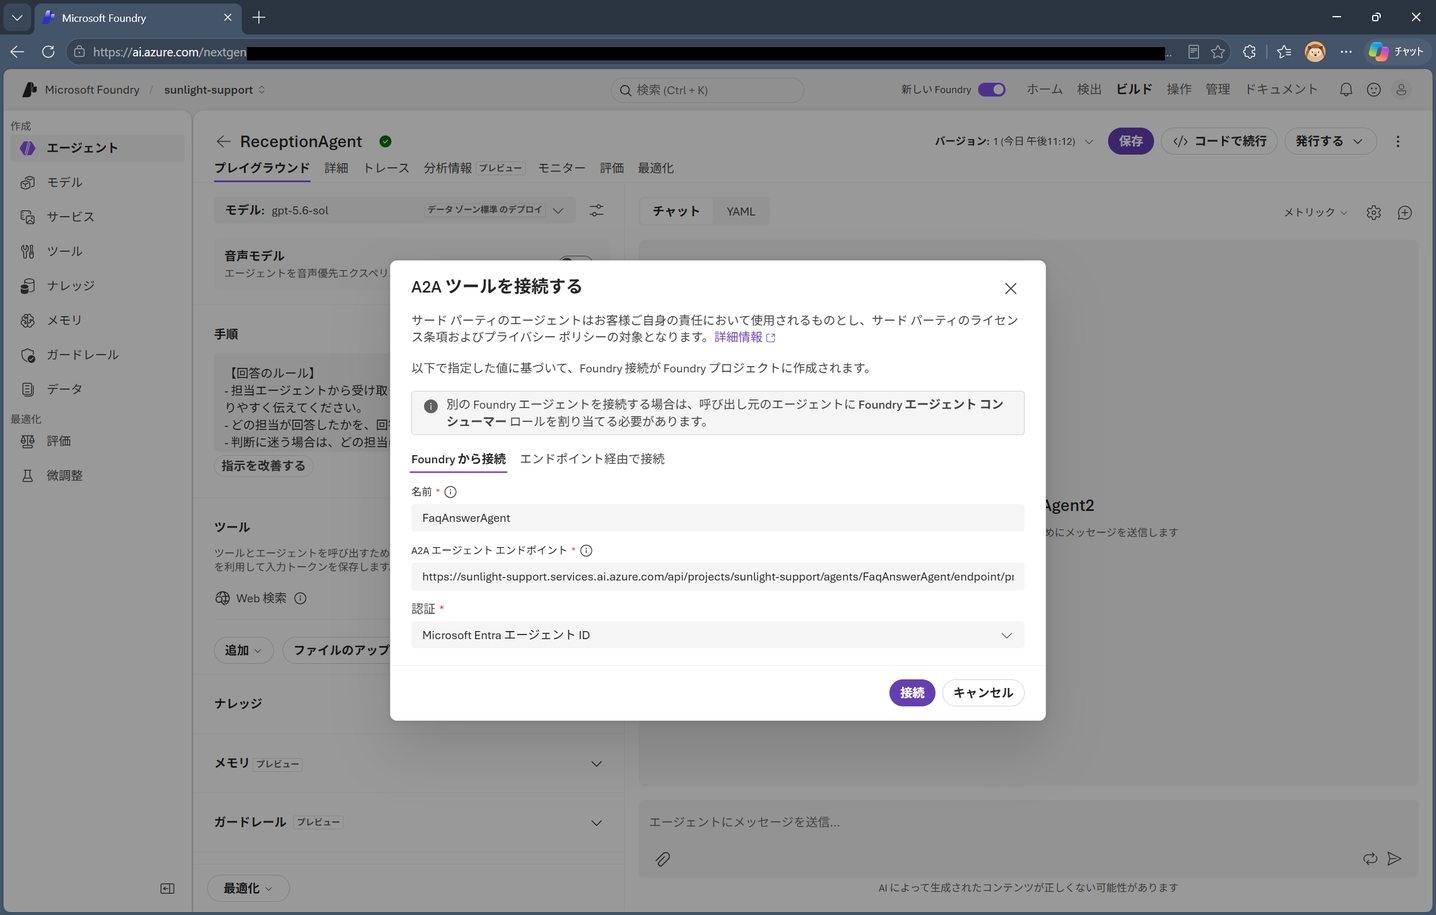
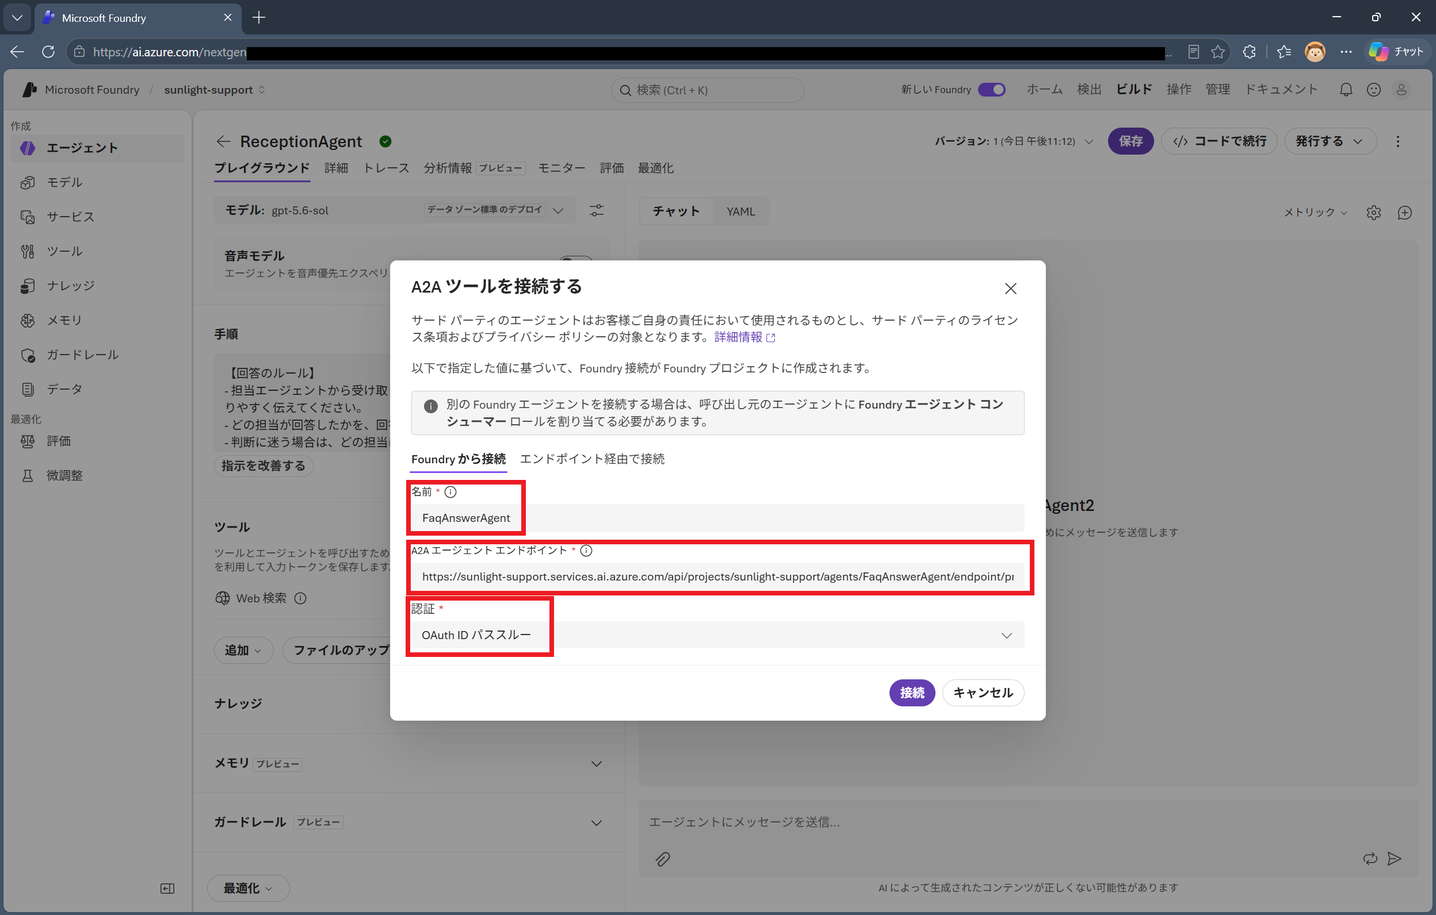
Lab2のA2A手順をポータル設定に更新

Changed region(s): [[0.2812, 0.5232, 0.7188, 0.7387]]

diff --git a/labs/lab2-knowledge-and-multiagent/lab2-knowledge-and-multiagent.md b/labs/lab2-knowledge-and-multiagent/lab2-knowledge-and-multiagent.md
@@ -503,69 +503,43 @@ Lab 1 の演習 1.2 と **同じ質問** を送信し、回答の違いを確認
 
 ### 4.5 A2A を設定する
 
-3 体の専門エージェントに **受信 A2A（Agent2Agent）** を有効化し、他のエージェントから発見・呼び出しできるように準備します。Foundry ポータルではまだ設定できないため、REST API を PowerShell または Bash から実行します。
+3 体の専門エージェントに **受信 A2A（Agent2Agent）** を有効化し、他のエージェントから発見・呼び出しできるように準備します。ここでは Foundry ポータルを使います。
+
+> 💡 スクリプトを使う方法は、末尾の [参考: スクリプトによる A2A 設定](#参考-スクリプトによる設定) に記載しています。
 
 #### 手順
 
-1. ターミナルで Azure にサインインし、対象サブスクリプションを選択する
+1. Foundry ポータルで `FaqAnswerAgent` を開き、**「詳細」** タブを選択する
+2. **「A2A プロトコル」** の **「有効化」** をクリックし、エージェントカードの作成画面を開く
+3. 次の内容を入力する。名前は `FaqAnswerAgent` のままにし、必須項目の説明・スキル名・スキルの説明を設定する
 
-```text
-az login
-az account set --subscription "<サブスクリプションID>"
-```
-
-2. 実行するスクリプトを手元に用意する。演習 1.1 でリポジトリを ZIP で取得またはクローンしている場合は、[labs/lab2-knowledge-and-multiagent/script](script) フォルダにすべて入っています。
-
-   リポジトリ全体を取得していない場合は、使うスクリプトだけを次の手順で保存します。
-
-   - **ローカルの PowerShell／Bash を使う場合**: GitHub で [a2a-settings.ps1](script/a2a-settings.ps1) または [a2a-settings.sh](script/a2a-settings.sh) を開き、右上の **「Download raw file」**（ダウンロードアイコン）で保存する。4.7 で使う `permission.ps1`／`permission.sh` も同じ方法で、同じフォルダーに保存しておく
-   - **Azure Cloud Shell の Bash を使う場合**: Cloud Shell のツールバーにある **「ファイルの管理」→「アップロード」** で、ダウンロードした `.sh` ファイルをアップロードする。アップロード先はホームディレクトリで、次の手順のコマンドではパスを `bash ./a2a-settings.sh` に読み替える
-
-   > ⚠ **PowerShell で「スクリプトの実行が無効」と表示される場合**: 現在のウィンドウだけ `Set-ExecutionPolicy -Scope Process -ExecutionPolicy RemoteSigned` を実行してから、再度スクリプトを実行します。ダウンロードしたファイルがブロックされる場合は、`Unblock-File <ファイルのパス>` を実行します。
-
-3. リポジトリのルートで **次の PowerShell または Bash のいずれか一方**を実行する。Foundry リソース名とプロジェクト名を実際の値に置き換えてください。プロジェクトのエンドポイントが `https://<リソース名>.services.ai.azure.com/api/projects/<プロジェクト名>` であることを確認します。
-
-**PowerShell（Windows で推奨）**
-
-[a2a-settings.ps1](script/a2a-settings.ps1) を実行します。
-
-```powershell
-$FoundryName = "<Foundryリソース名>"
-$ProjectName = "<プロジェクト名>"
-
-.\labs\lab2-knowledge-and-multiagent\script\a2a-settings.ps1 `
-    -FOUNDRY_NAME $FoundryName `
-    -FOUNDRY_PROJECT_NAME $ProjectName
-```
-
-**Bash（Azure Cloud Shell の Bash、Git Bash、WSL など）**
-
-[a2a-settings.sh](script/a2a-settings.sh) を実行します。Bash 環境側にも Azure CLI と `curl` が必要です。
-
-```bash
-export FOUNDRY_NAME="<Foundryリソース名>"
-export FOUNDRY_PROJECT_NAME="<プロジェクト名>"
-
-bash labs/lab2-knowledge-and-multiagent/script/a2a-settings.sh
-```
-
-スクリプトは Azure CLI でアクセストークンを取得し、各エージェントに `PATCH /agents/<エージェント名>?api-version=v1` を送信します。設定内容は次のとおりです。
-
-| 設定項目 | 内容 |
+| 項目 | 入力例 |
 |------|------|
-| `agent_card` | エージェントの説明、カードのバージョン、スキルの ID・名前・説明 |
-| `agent_endpoint.protocol_configuration.responses` | Responses プロトコルを有効化（受信 A2A の前提） |
-| `agent_endpoint.protocol_configuration.a2a` | 受信 A2A を有効化 |
+| 名前 | `FaqAnswerAgent` |
+| 説明 | 製品の仕様・使い方・成分・安全性・社内手順に関する質問に答えるエージェント |
+| スキル名 | FAQ Answer |
+| スキルの説明 | 製品の仕様・使い方・成分・安全性・社内手順に関する質問に回答します |
+| サンプル プロンプト（任意） | 詰め替えの保管期限は？ |
 
-> 💡 **カードの説明は役割を明確にします**: FAQ 回答、履歴分析、報告文の起案という 3 体の役割を登録します。この設定だけでは、エージェント同士の接続や自動振り分けは行われません。また、匿名公開ではなく Microsoft Entra ID 認証が必要です。
+![](images/lab2-51.png)
 
-4. 各エージェントの `SUCCESS` が表示されたことを確認する。エラーで停止した場合は、エラーの内容とエージェント名・権限を確認し、解消してから再実行してください。
+4. **「保存」** をクリックする
+5. A2A 設定後に表示される **エンドポイント** (URL) をローカルに保存しておきます。
 
-> 💡 今回使用したターミナルは、演習 4.7 でもそのまま引き続き使用します。
+![](images/lab2-52.png)
+
+6. 残り 2 体も、それぞれの **「詳細」** タブから A2A を有効化する。各エージェントの役割に合わせて、次の内容を入力する
+
+| エージェント名 | 説明 | スキル名 | スキルの説明 |
+|------|------|------|------|
+| `HistoryAnalysisAgent` | 問い合わせ履歴データの集計・傾向分析を行うエージェント | History Analysis | 問い合わせ履歴データを集計し、傾向を分析します |
+| `DraftingAgent` | 関係部署へのエスカレーション報告文を作成するエージェント | Escalation Drafting | 問い合わせ内容をもとに関係部署へのエスカレーション報告文を作成します |
+
+> 💡 **有効化と接続は別の操作です**: ここでは各エージェントの機能をエージェントカードに登録し、受信 A2A を有効化します。受付エージェントからの接続と認証方式は、演習 4.6 で設定します。
 
 **✅ 成功確認:**
 - 各エージェント（`FaqAnswerAgent`、`HistoryAnalysisAgent`、`DraftingAgent`）の **「詳細」** タブで、**「A2A プロトコル」** が **「アクティブ」** と表示される
-- このとき表示される **「エンドポイント」**（URL）を 3 体分コピーし、ローカルに保存する
+- 各エージェントの **「エンドポイント」**（URL）が、ローカルに保存されている
 
 ![](images/lab2-36.png)
 
@@ -618,64 +592,37 @@ bash labs/lab2-knowledge-and-multiagent/script/a2a-settings.sh
 |------|------|
 | 名前 | `FaqAnswerAgent` |
 | A2A エージェントエンドポイント | `https://YOUR_FOUNDRY_NAME.services.ai.azure.com/api/projects/YOUR_FOUNDRY_PROJECT_NAME/agents/FaqAnswerAgent/endpoint/protocols/a2a` |
+| 認証 | OAuth パススルー（OAuth identity passthrough） |
 
-7. **「接続」** をクリック
+> ⚠ この時設定する A2A の名前は、このエージェント ('ReceptionAgent') が内部で認識するための名称です。この名前の冒頭は文字である必要があります。(数字、記号は不可) **作成した エージェント ('FaqAnswerAgent') の実際の名前、IDに関わらず、ここでは 'FaqAnswerAgent' と入力します。**
+
+7. 「接続」** をクリックする。
 
 ![](images/lab2-39.png)
 
-8. 残り 2 体のエージェントについても同様に A2A エンドポイントを追加する
+8. 残り 2 体のエージェントも同様に追加する
 9. `ReceptionAgent` のプレイグラウンドで **「保存」** をクリック
-10. **「詳細」** タブをクリックし、**「Entra エージェント ID」** 欄の ID をコピーしてローカルに保存する
-
-![](images/lab2-40.png)
 
 **✅ 成功確認:**
-- `ReceptionAgent` に手順（Instructions）が設定され、ツールとして 3 体のエージェントの A2A エンドポイントが追加されている
+- `ReceptionAgent` に手順（Instructions）が設定され、ツールとして 3 体のエージェントの A2A エンドポイントが追加されている。すべての接続の認証が OAuth パススルーになっている
 
 ![](images/lab2-41.png)
 
-### 4.7 受付エージェントに権限を設定する
+### 4.7 OAuth パススルーの認証を確認する
 
-受付エージェントが専門エージェントの A2A エンドポイントを呼び出せるように、`ReceptionAgent` に **Foundry Agent Consumer** ロールを付与します。
+OAuth パススルーでは、エージェント自身の ID ではなく、**利用者がサインイン・同意したアカウントの権限**で専門エージェントを呼び出します。この手順では、`ReceptionAgent` の Entra オブジェクト ID を取得したり、その ID にロールを付与するスクリプトを実行したりする必要はありません。
 
 #### 手順
 
-1. `ReceptionAgent` の ID 情報から、呼び出しに使用するエージェント ID の **Microsoft Entra オブジェクト（プリンシパル）ID** を確認する。新しい Foundry エージェントでは `instance_identity` に指定された ID を使用します。
-
-> ⚠ **ID を取り違えないでください**: `ReceptionAgent` という名前、エージェントのリソース ID、アプリケーション（クライアント）ID ではありません。Microsoft Entra のサービスプリンシパルを識別するオブジェクト ID（GUID）を指定します。
-
-2. 演習 4.5 で使用したターミナルで、**次の PowerShell または Bash のいずれか一方**を実行する。スクリプトは演習 4.5 の手順 2 で用意したものを使います（Cloud Shell では `bash ./permission.sh` に読み替える）。リソース名・プロジェクト名は、**呼び出し先の専門エージェントが属するプロジェクト**の値に置き換えます。
-
-**PowerShell**
-
-[permission.ps1](script/permission.ps1) を実行します。
-
-```powershell
-.\labs\lab2-knowledge-and-multiagent\script\permission.ps1 `
-    -FOUNDRY_NAME "<Foundryリソース名>" `
-    -FOUNDRY_PROJECT_NAME "<プロジェクト名>" `
-    -CALLER_AGENT_OBJECT_ID "<ReceptionAgentのEntraオブジェクトID>"
-```
-
-**Bash**
-
-[permission.sh](script/permission.sh) を実行します。
-
-```bash
-export FOUNDRY_NAME="<Foundryリソース名>"
-export FOUNDRY_PROJECT_NAME="<プロジェクト名>"
-export CALLER_AGENT_OBJECT_ID="<ReceptionAgentのEntraオブジェクトID>"
-
-bash labs/lab2-knowledge-and-multiagent/script/permission.sh
-```
-
-スクリプトは選択中のサブスクリプションから Foundry リソースを取得し、対象プロジェクトのスコープで `Foundry Agent Consumer`（ロール ID: `eed3b665-ab3a-47b6-8f48-c9382fb1dad6`）を割り当てます。これにより、受付エージェントはそのプロジェクト内のエージェントエンドポイントへアクセスできるようになります。
+1. 利用するアカウントが、受付エージェントと接続先の専門エージェントにアクセスできることを確認する。利用者向けの最小権限は、対象プロジェクトまたはエージェントの **Foundry Agent Consumer** です。エージェントを作成するための **Foundry User** ロールでも利用できます
+2. `ReceptionAgent` のプレイグラウンドで「詰め替えの保管期限は？」と送信する
+3. 初回の呼び出しで認証・同意のリンクが表示されたら開き、Lab で使用するアカウントでサインインする。要求されるアクセス許可を確認して同意する
+4. プレイグラウンドに戻り、同じ質問を再送信する。残りの専門エージェントも、演習 4.8 で呼び出したときに同意を求められたら同様に対応する
 
 **✅ 成功確認:**
-- ロール割り当ての結果と `SUCCESS: Foundry Agent Consumer assigned.` が表示される
+- 必要な認証・同意を完了し、`FaqAnswerAgent` からの回答が返る
 
-> 💡 **権限の反映には時間がかかる場合があります。** 割り当て直後に 403 が出る場合は、反映を待ってから再確認してください。
-
+> ⚠ **OAuth パススルーは匿名アクセスではありません。** 利用者自身に接続先へのアクセス権が必要です。権限が不足する場合は管理者に確認してください。すでに同意済みの場合、同意リンクが再表示されないことがあります。
 
 ### 4.8 振り分けをテストする
 
@@ -734,8 +681,8 @@ bash labs/lab2-knowledge-and-multiagent/script/permission.sh
 | ナレッジの矛盾が回答を揺らすことを体感した | — |
 | 200 件のデータを集計・可視化させた | コード インタープリター |
 | 役割ごとに 3 体のエージェントを作った | エージェント |
-| 専門エージェントの受信 A2A を有効化した | REST API、エージェントカード |
-| 受付役から専門エージェントを呼び出した | A2A |
+| 専門エージェントの受信 A2A を有効化した | Foundry ポータル、エージェントカード |
+| 受付役から専門エージェントを呼び出した | A2A、OAuth パススルー |
 
 **この Lab で分かったこと:**
 
@@ -749,6 +696,7 @@ bash labs/lab2-knowledge-and-multiagent/script/permission.sh
 - [ファイル検索（File Search）](https://learn.microsoft.com/ja-jp/azure/ai-foundry/agents/how-to/tools/file-search)
 - [コード インタープリター](https://learn.microsoft.com/ja-jp/azure/ai-foundry/agents/how-to/tools/code-interpreter)
 - [受信 A2A の有効化とアクセス権の設定](https://learn.microsoft.com/azure/foundry/agents/how-to/enable-agent-to-agent-endpoint)
+- [A2A の認証と OAuth パススルー](https://learn.microsoft.com/azure/foundry/agents/concepts/agent-to-agent-authentication)
 
 ---
 
@@ -822,18 +770,19 @@ bash labs/lab2-knowledge-and-multiagent/script/permission.sh
 **確認すること:**
 1. 先に演習 4.5 を完了し、接続先エージェントの **「A2A プロトコル」** が **「アクティブ」** になっているか確認する
 2. エンドポイント URL に、Foundry リソース名・プロジェクト名・接続先エージェント名が正しく含まれているか確認する。`/projects/` の後や URL 内に空白がないことも確認する
-3. URL の末尾が `/agents/<エージェント名>/endpoint/protocols/a2a` であることを確認する。エージェントカードの URL（`/agentCard/v1.0`）は接続先 URL に使わない
+3. URL の末尾が `/agents/<エージェント名>/endpoint/protocols/a2a` であることを確認する。
 4. 接続先エージェントと `ReceptionAgent` が、同じ Foundry プロジェクトにあることを確認する
 
 #### 接続はできるが、呼び出し時に `401` または `403` になる
 
-**原因**: 認証トークンがない・無効、または呼び出し元に接続先エンドポイントへの権限がありません。
+**原因**: OAuth パススルーの認証・同意が未完了、または利用者に接続先エンドポイントへの権限がありません。
 
 **解決方法:**
 1. 接続先エージェントの A2A が有効であることを確認する
-2. 演習 4.7 で、呼び出し元である `ReceptionAgent` の **Entra オブジェクト（プリンシパル）ID** に `Foundry Agent Consumer` が割り当てられているか確認する。エージェント名、エージェント ID、アプリケーション（クライアント）ID を指定していないか確認する
-3. ロール付与直後の場合は反映を待ち、新しい要求で再試行する
-4. ロール割り当てに失敗している場合、操作ユーザーに対象スコープでロール割り当てを行う権限があるか確認する
+2. 演習 4.6 の 3 つの接続で、認証に **OAuth パススルー** が選択されているか確認する
+3. 演習 4.7 の認証・同意を完了してから再送信する。サインインしたアカウントとテナントが正しいかも確認する
+4. 利用者自身が、受付と接続先のプロジェクトまたはエージェントにアクセスできるか確認する。権限不足の場合は管理者に確認し、付与直後であれば反映を待つ
+5. 参考手順の **Microsoft Entra エージェント ID** 認証を意図的に使っている場合に限り、呼び出し元エージェントのプリンシパルに対するロール割り当てを確認する
 
 #### 接続後に応答が返らない、または `404` になる
 
@@ -844,3 +793,89 @@ bash labs/lab2-knowledge-and-multiagent/script/permission.sh
 4. A2A の接続名が `ReceptionAgent` の手順（Instructions）内で使っている名前と一致しているか確認する
 
 > 💡 エラーの HTTP ステータスや応答本文を記録し、URL・エージェント名・ロール割り当てを一つずつ確認してください。アクセストークンなどの認証情報はログや共有資料に貼り付けないでください。
+
+---
+
+## 参考: スクリプトによる A2A 設定
+
+Foundry ポータル操作の代わりに、REST API で受信 A2A を有効化する方法です。A2A 接続の認証に **Entra ID エージェントID** を使用したい場合、こちらの方法で設定します。
+
+### スクリプトを用意する
+
+演習 1.1 でリポジトリを ZIP で取得またはクローンしている場合は、[script](script) フォルダーに入っています。
+
+個別に取得する場合は、GitHub で [a2a-settings.ps1](script/a2a-settings.ps1) または [a2a-settings.sh](script/a2a-settings.sh) を開き、右上の **「Download raw file」**（ダウンロードアイコン）で保存します。
+
+- **ローカルで実行する場合**: ターミナルをリポジトリのルートで開く。個別にダウンロードした場合は保存先フォルダーで開き、下記のパスを `.\a2a-settings.ps1` または `bash ./a2a-settings.sh` に読み替える
+- **Azure Cloud Shell の Bash を使う場合**: ダウンロードした `.sh` ファイルを、Cloud Shell のツールバーの **「ファイルの管理」→「アップロード」** でアップロードし、下記の実行パスを `bash ./a2a-settings.sh` に読み替える
+
+> ⚠ **PowerShell で実行がブロックされる場合**: スクリプトの内容と提供元を確認してから `Unblock-File <ファイルのパス>` を実行してください。実行ポリシーで禁止されている場合は、組織の方針に従ってください。変更が許可されている環境では、現在のウィンドウに限り `Set-ExecutionPolicy -Scope Process -ExecutionPolicy RemoteSigned` を使用できます。
+
+### 受信 A2A を有効化する
+
+1. ローカルのターミナルでは `az login` でサインインする（Cloud Shell はサインイン済み）
+2. `az account set --subscription "<サブスクリプションID>"` で対象を選択する
+3. 次の **PowerShell または Bash のいずれか一方**を実行する。リソース名とプロジェクト名は実際の値に置き換える
+
+**PowerShell**
+
+```powershell
+.\labs\lab2-knowledge-and-multiagent\script\a2a-settings.ps1 `
+    -FOUNDRY_NAME "<Foundryリソース名>" `
+    -FOUNDRY_PROJECT_NAME "<プロジェクト名>"
+```
+
+**Bash**（Azure CLI と `curl` が必要）
+
+```bash
+export FOUNDRY_NAME="<Foundryリソース名>"
+export FOUNDRY_PROJECT_NAME="<プロジェクト名>"
+
+bash labs/lab2-knowledge-and-multiagent/script/a2a-settings.sh
+```
+
+スクリプトは Azure CLI でアクセストークンを取得し、3 体の専門エージェントに `PATCH /agents/<エージェント名>?api-version=v1` を送信します。
+
+| 設定項目 | 内容 |
+|------|------|
+| `agent_card` | エージェントの説明、カードのバージョン、スキルの ID・名前・説明 |
+| `agent_endpoint.protocol_configuration.responses` | Responses プロトコルを有効化 |
+| `agent_endpoint.protocol_configuration.a2a` | 受信 A2A を有効化 |
+
+各エージェントの `SUCCESS` が表示されることを確認してください。エラーで停止した場合は内容を確認して解消し、再実行します。続けて、演習 4.5 の成功確認と同様に **「A2A プロトコル」** が **「アクティブ」** であることを確認し、3 体のエンドポイントを保存します。
+
+### Microsoft Entra エージェント ID 認証を使う場合のみ: 権限の付与
+
+接続の認証を **Microsoft Entra エージェント ID** にする場合は、呼び出し元の `ReceptionAgent` に **Foundry Agent Consumer** ロールを付与します。
+
+1. `ReceptionAgent` の ID 情報から、`instance_identity` に指定された ID の **Microsoft Entra オブジェクト（プリンシパル）ID** を確認する。エージェント名、エージェントリソース ID、アプリケーション（クライアント）ID ではなく、サービスプリンシパルのオブジェクト ID（GUID）を使う
+2. [permission.ps1](script/permission.ps1) または [permission.sh](script/permission.sh) を、上記と同じダウンロード手順で用意する
+3. サインイン済みのターミナルで、次のいずれかを実行する。リソース名とプロジェクト名は、**接続先の専門エージェントが属するプロジェクト**の値を指定する
+
+**PowerShell**
+
+```powershell
+.\labs\lab2-knowledge-and-multiagent\script\permission.ps1 `
+    -FOUNDRY_NAME "<Foundryリソース名>" `
+    -FOUNDRY_PROJECT_NAME "<プロジェクト名>" `
+    -CALLER_AGENT_OBJECT_ID "<ReceptionAgentのEntraオブジェクトID>"
+```
+
+**Bash**
+
+```bash
+export FOUNDRY_NAME="<Foundryリソース名>"
+export FOUNDRY_PROJECT_NAME="<プロジェクト名>"
+export CALLER_AGENT_OBJECT_ID="<ReceptionAgentのEntraオブジェクトID>"
+
+bash labs/lab2-knowledge-and-multiagent/script/permission.sh
+```
+
+個別ダウンロードの場合は `.\permission.ps1` または `bash ./permission.sh` に読み替えます。Cloud Shell の場合は `.sh` をアップロードしてから `bash ./permission.sh` を使ってください。
+
+スクリプトは選択中のサブスクリプションから Foundry リソースを取得し、対象プロジェクトのスコープで `Foundry Agent Consumer`（ロール ID: `eed3b665-ab3a-47b6-8f48-c9382fb1dad6`）を割り当てます。実行するユーザーには、対象スコープでロールを割り当てる権限が必要です。
+
+**✅ 成功確認:**
+- ロール割り当ての結果と `SUCCESS: Foundry Agent Consumer assigned.` が表示される
+
+> 💡 **権限の反映には時間がかかる場合があります。** 割り当て直後に 403 が出る場合は、反映を待ってから再確認してください。
